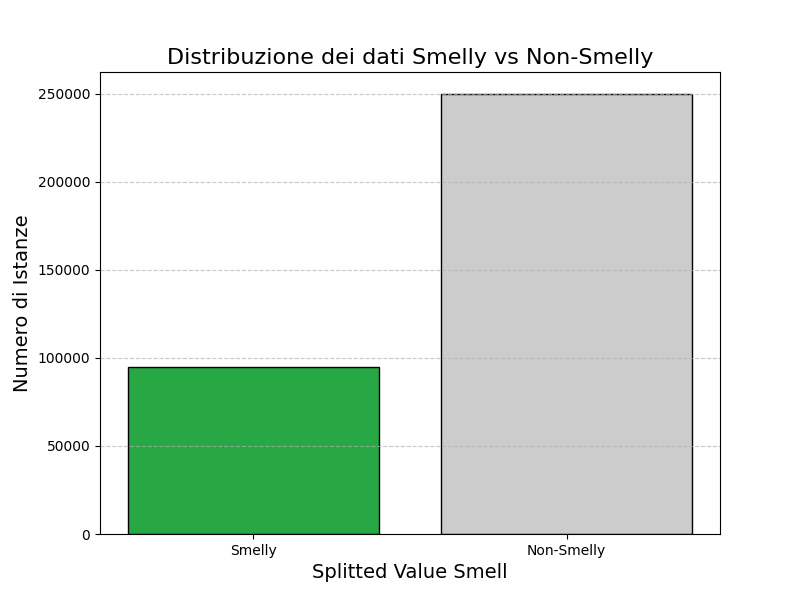
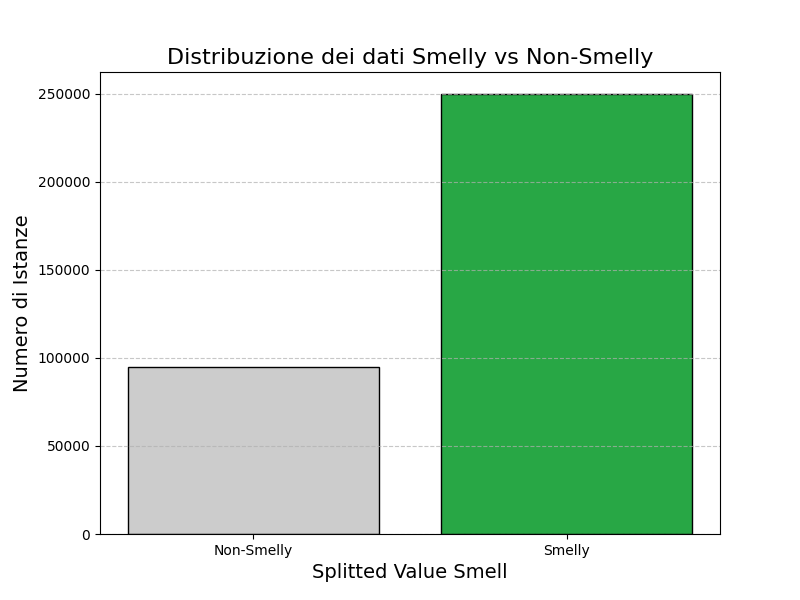
Fixed Data Visualization for the SVS meta-dataset

diff --git a/development/svs_metadataset.py b/development/svs_metadataset.py
@@ -18,7 +18,7 @@ def transform_to_meta(dataset, id_dataset):
 
     for index in range(len(dataset)):
         for i, column in enumerate(dataset.columns):
-            if i == num_columns - 1: # L'ultima colonna di ogni dataset è smelly, tutte le altre no
+            if i == num_columns - 1: # Tutte le colonne di ogni dataset sono smelly, eccetto l'ultima
                 smell_value = 0
             else:
                 smell_value = 1
@@ -51,17 +51,17 @@ print(null_count)
 # Creazione e salvataggio di un pie plot
 fig, ax = plt.subplots(figsize=(7, 6))
 fig.subplots_adjust(left=0, right=1, top=1, bottom=0.1)
-plt.pie(svs_meta_dataset['Smell'].value_counts(), labels=['Non-Smelly', 'Smelly'], colors=["#CCCCCC", "#28A745"],
-        explode=(0, 0.015), autopct="%0.2f", startangle=90, textprops={'fontsize': 11})
+plt.pie(svs_meta_dataset['Smell'].value_counts(), labels=['Smelly', 'Non-Smelly'], colors=['#28A745', '#CCCCCC'],
+        explode=(0, 0.015), autopct='%0.2f', startangle=90, textprops={'fontsize': 11})
 plt.savefig(os.path.join("..", "plots", "svs-balancing-pie.png"), format="png")
 
 # Creazione e salvataggio di un bar plot
 smell_counts = svs_meta_dataset['Smell'].value_counts()
 plt.figure(figsize=(8, 6))
-plt.bar(smell_counts.index, smell_counts.values, color=['#CCCCCC', '#28A745'], edgecolor='black', linewidth=1)
+plt.bar(smell_counts.index, smell_counts.values, color=['#28A745', '#CCCCCC'], edgecolor='black', linewidth=1)
 plt.title('Distribuzione dei dati Smelly vs Non-Smelly', fontsize=16)
 plt.xlabel('Splitted Value Smell', fontsize=14)
 plt.ylabel('Numero di Istanze', fontsize=14)
-plt.xticks([0, 1], ['Smelly', 'Non-Smelly'])
+plt.xticks([0, 1], ['Non-Smelly', 'Smelly'])
 plt.grid(axis='y', linestyle='--', alpha=0.7)
 plt.savefig(os.path.join("..", "plots", "svs-balancing-bar.png"), format="png")
